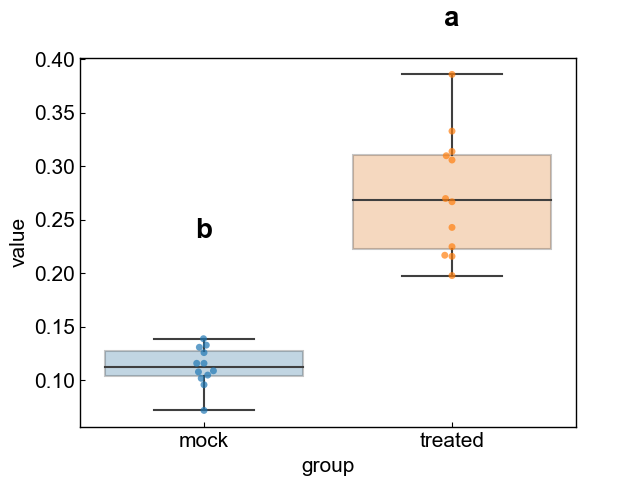
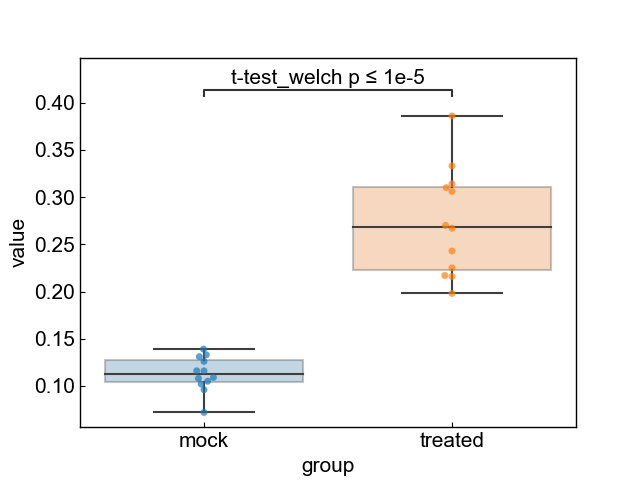
fix twosample

diff --git a/src/easy_plot/twosample.py b/src/easy_plot/twosample.py
@@ -16,7 +16,8 @@ def box_swarm_plot(
     test: Optional[Literal["t-test_welch"]] = "t-test_welch",
     text_format: Literal["simple", "star"] = "simple",
 ):
-    assert len(df[x].unique()) == 2
+    groups = list(df[x].unique())
+    assert len(groups) == 2
 
     sns.swarmplot(x=x, y=y, data=df, alpha=0.7, ax=ax)
     sns.boxplot(x=x, y=y, data=df, ax=ax, boxprops=dict(alpha=0.3))
@@ -27,7 +28,8 @@ def box_swarm_plot(
         ax.set_ylabel(ylabel)
 
     if test is not None:
-        pairs = [(x, y)]
+        
+        pairs = [(groups[0], groups[1])]
         annotator = Annotator(ax, pairs, data=df, x=x, y=y)
         annotator.configure(test="t-test_welch", text_format=text_format)
         annotator.apply_and_annotate()
